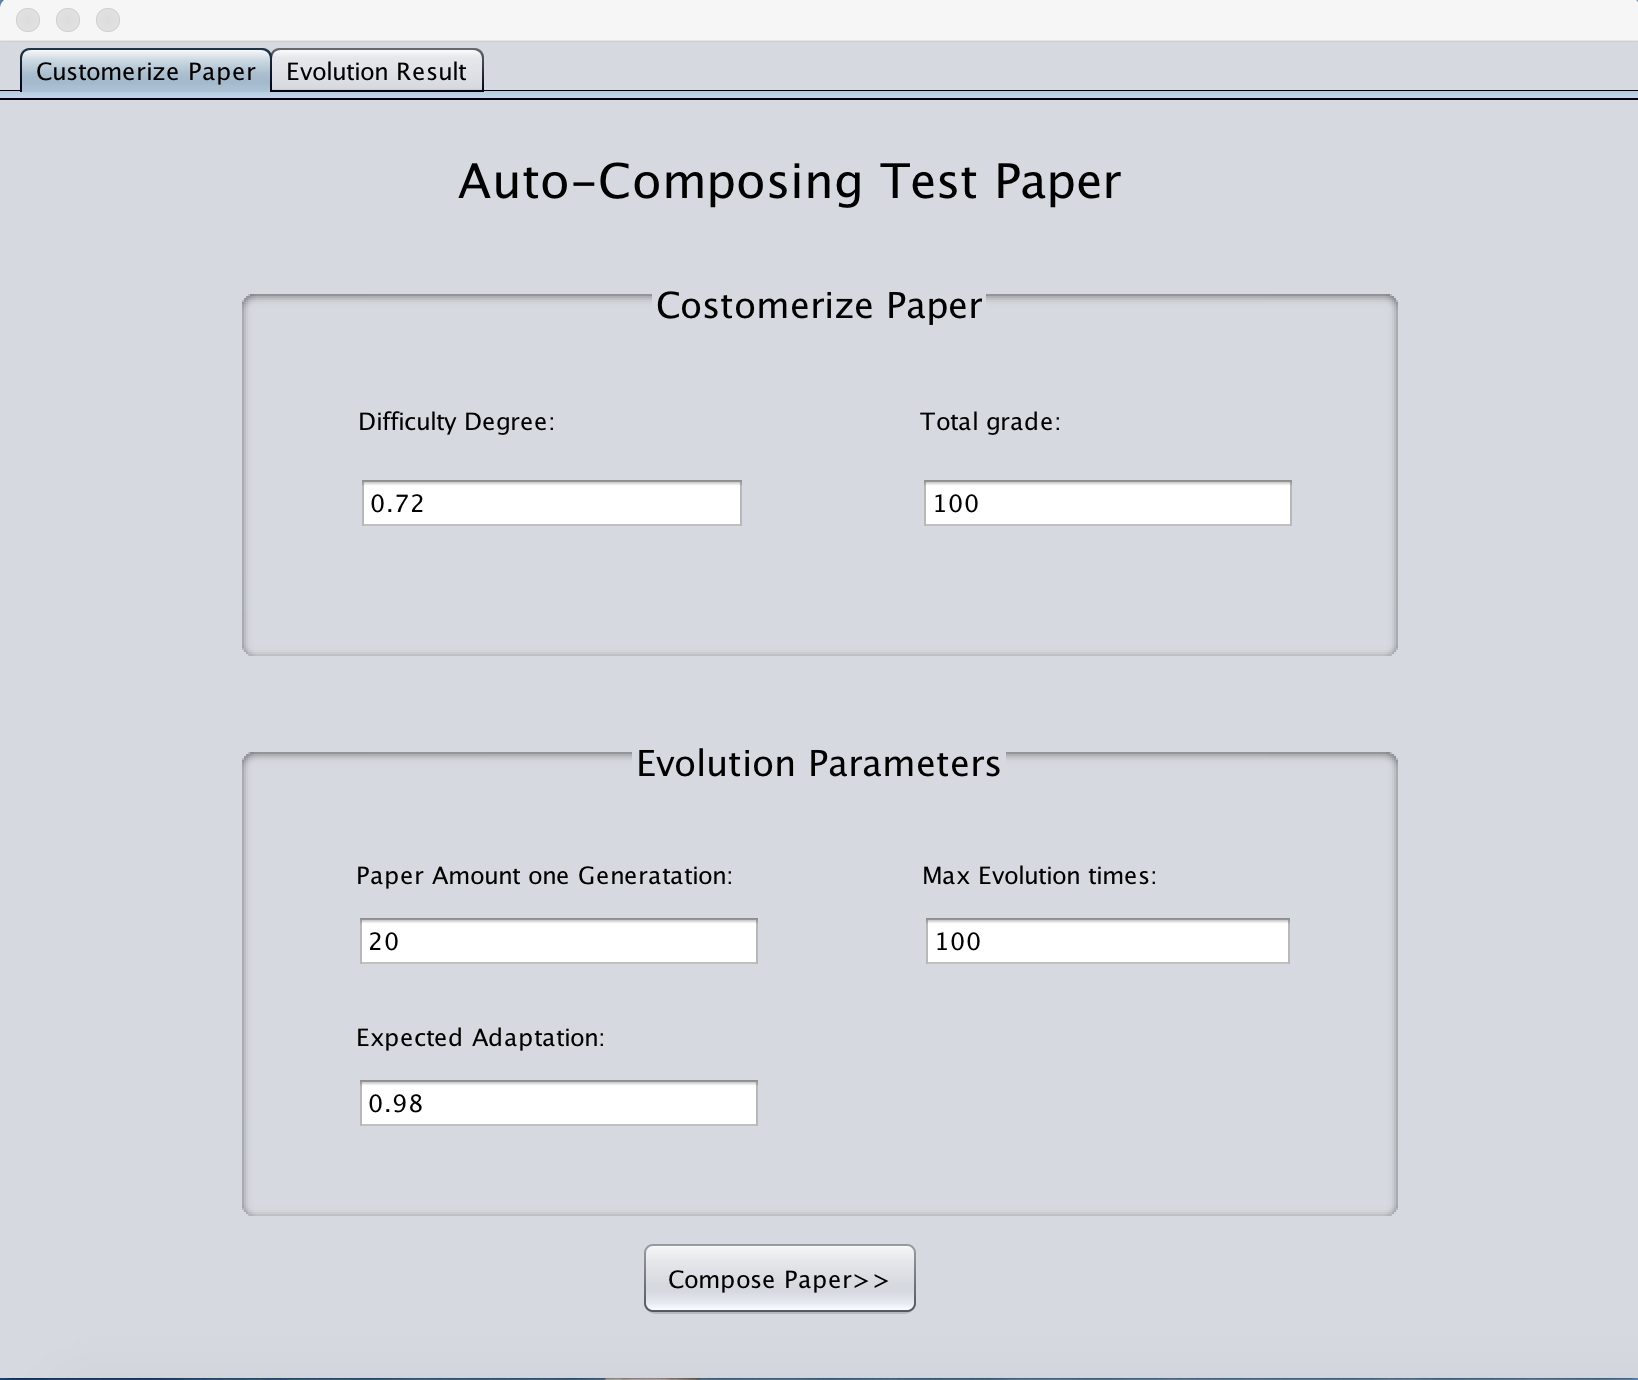
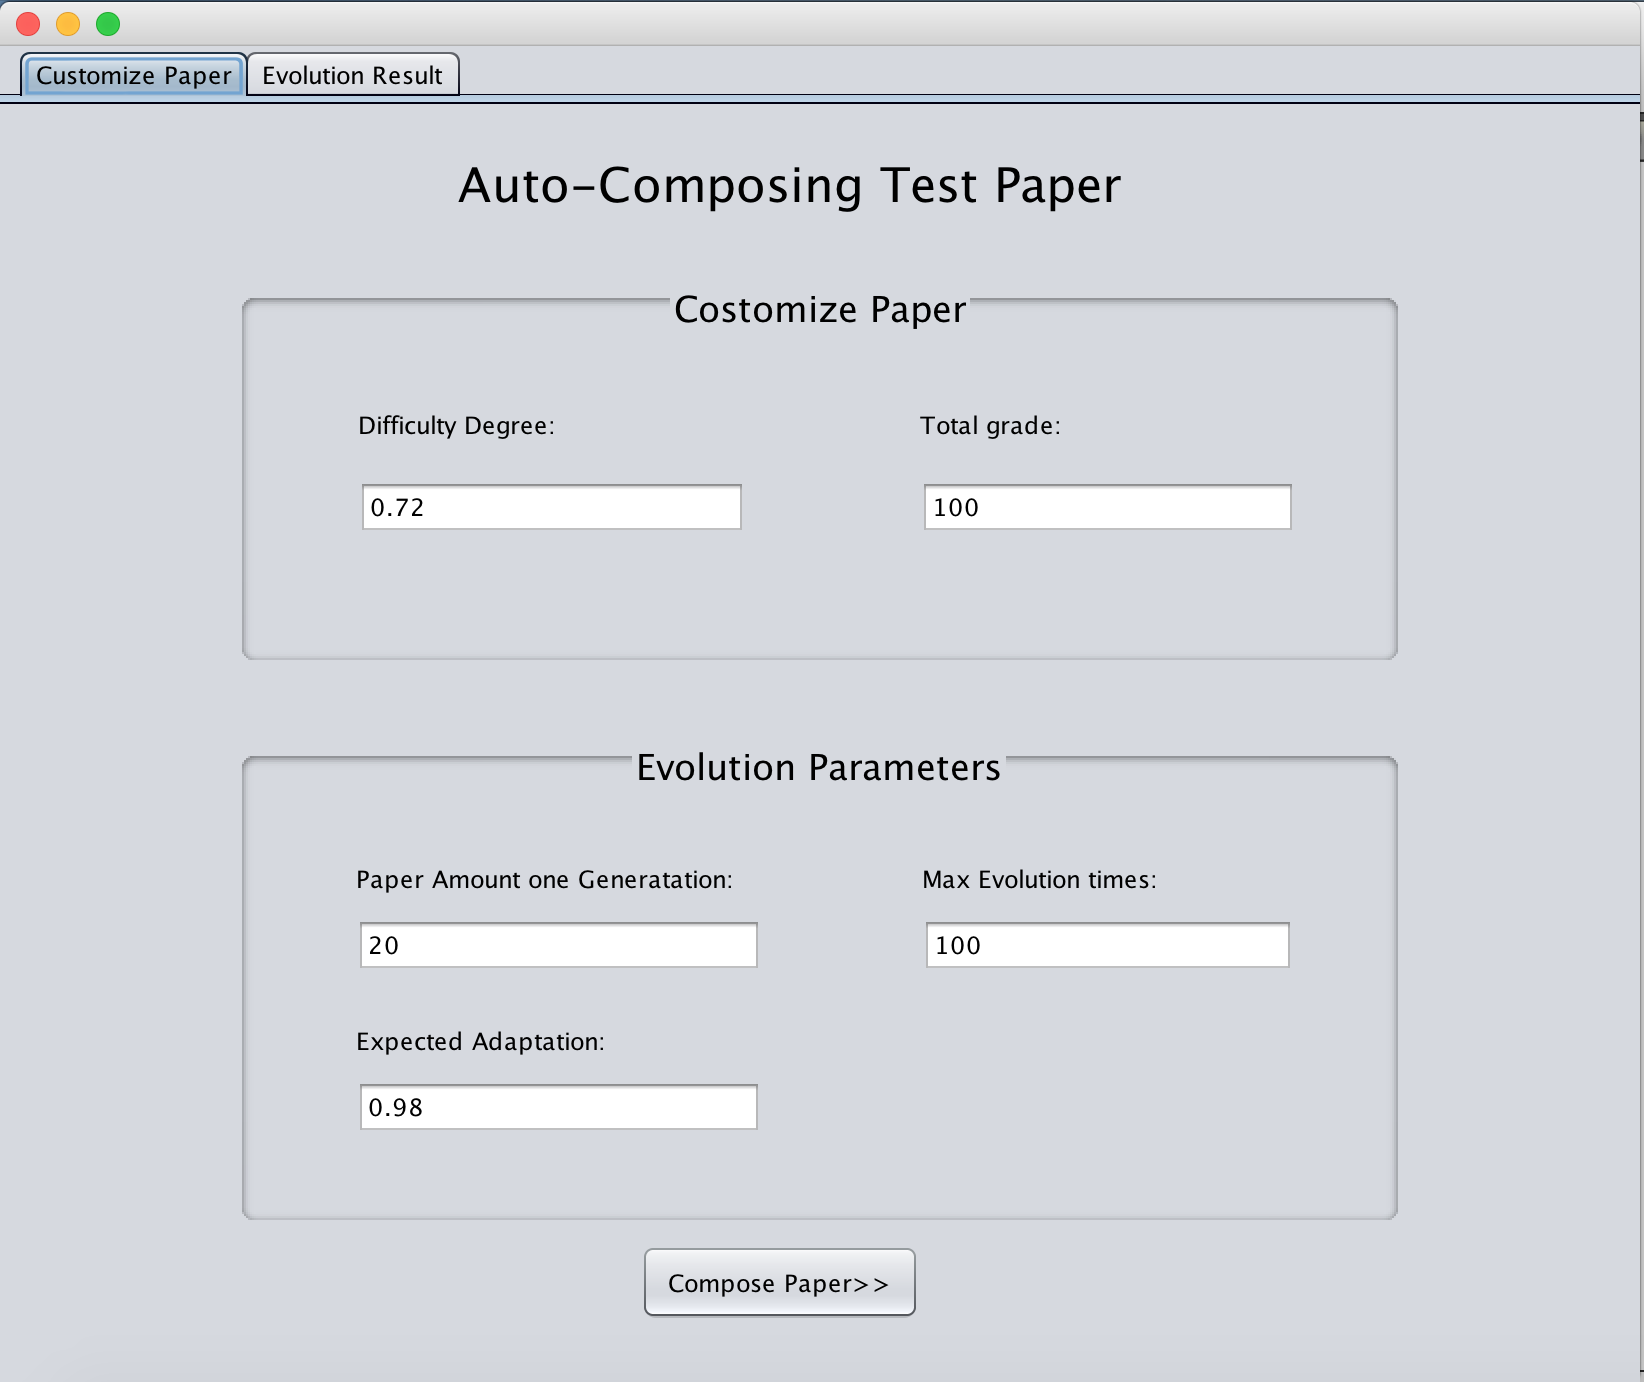
images

diff --git a/6205Final-GA/src/GeneticAlgorithm/MainJFrame.java b/6205Final-GA/src/GeneticAlgorithm/MainJFrame.java
@@ -82,7 +82,7 @@ public class MainJFrame extends javax.swing.JFrame {
         jLabel1.setFont(new java.awt.Font("Lucida Grande", 0, 24)); // NOI18N
         jLabel1.setText("Auto-Composing Test Paper");
 
-        jPanel2.setBorder(javax.swing.BorderFactory.createTitledBorder(null, "Costomerize Paper", javax.swing.border.TitledBorder.CENTER, javax.swing.border.TitledBorder.TOP, new java.awt.Font("Lucida Grande", 0, 18))); // NOI18N
+        jPanel2.setBorder(javax.swing.BorderFactory.createTitledBorder(null, "Costomize Paper", javax.swing.border.TitledBorder.CENTER, javax.swing.border.TitledBorder.TOP, new java.awt.Font("Lucida Grande", 0, 18))); // NOI18N
 
         jLabel4.setText("Difficulty Degree:");
 
@@ -226,14 +226,14 @@ public class MainJFrame extends javax.swing.JFrame {
                 .addContainerGap())
         );
 
-        jTabbedPane1.addTab("Customerize Paper", jPanel1);
+        jTabbedPane1.addTab("Customize Paper", jPanel1);
 
         processJtable.setModel(new javax.swing.table.DefaultTableModel(
             new Object [][] {
 
             },
             new String [] {
-                "Generation", "Adaptation Degree"
+                "Generation", "Fitness"
             }
         ) {
             Class[] types = new Class [] {
